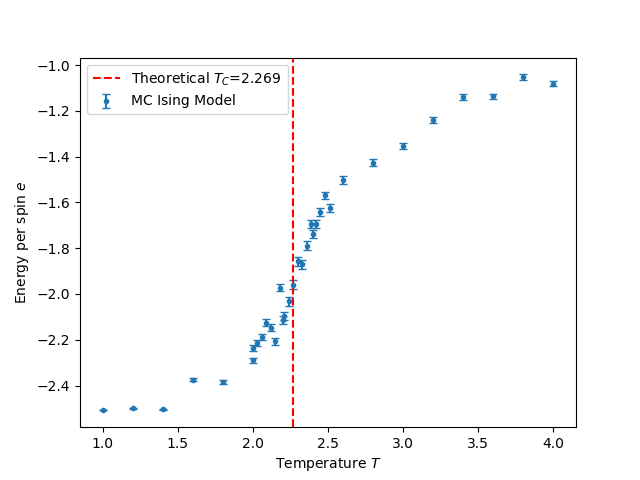
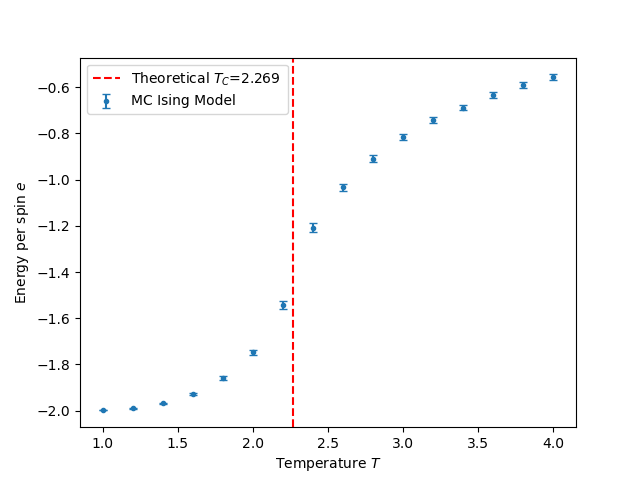
yee

diff --git a/examples/find_tau.py b/examples/find_tau.py
@@ -1,9 +1,42 @@
-from src.analysis import tau_in_temp_range
+from src.analysis import tau_in_temp_range, find_tau
+from src.MetropolisAlgorithm import MetropolisAlgorithm
+from src.physics import IsingModel, magnetization
+from src.analysis import equilibrilize, calc_chi
+from src.visualization import plot_time_trace
 import numpy as np
+from scipy.optimize import curve_fit
+import matplotlib.pyplot as plt
 
 
 
 if __name__ == "__main__":
-	settings = {"size": 50, "dimensions": 2, "initial_distribution": 0.9, "N_tau":2, "tau_sweeps":10}
-	temps = np.arange(1, 4.1, 2)
-	tau_in_temp_range(temps, settings)
+	settings = {"size": 50, "dimensions": 2, "initial_distribution": 0.9, "N_tau":2, "tau_sweeps":30}
+	# Set up settings
+	sweeps = 40
+
+	# Set up model and property functions to be calculated
+	im = IsingModel(dimensionless_temperature=1., dims=settings["dimensions"])
+	properties = (magnetization,)
+
+	# Initialize monte carlo engine
+	mc = MetropolisAlgorithm(model= im, property_functions=properties, settings=settings)
+	equilibrilize(mc, settings)
+
+	print("Determining correlation time")
+	# If the sweeps are less than the correlation time this is not a good result anyway!
+	saved_properties = mc.run_steps(settings["size"] ** settings["dimensions"] * settings["tau_sweeps"])
+
+	# Retrive the magnetization
+	magnetization_array = saved_properties[::, 1]
+
+	# Correlation function
+	chi = calc_chi(magnetization_array / settings["size"] ** settings["dimensions"])
+	chi = chi/chi[0]
+	def expo(x, a): return np.exp(-a*(x))
+	range = np.arange(np.argwhere(chi<0)[0,0])
+	popt, pcov = curve_fit(expo, range, chi[:range.size])
+	plt.plot(chi[:range.size*3])
+	plt.plot(expo(range, *popt))
+	plt.ylabel("$\\chi(t)$")
+	plt.xlabel("Steps $t$")
+	plt.show()

diff --git a/examples/advanced_properties.py b/examples/advanced_properties.py
@@ -27,11 +27,11 @@ critical_temp_settings = {
 	"initial_distribution": 0.75,	# Chance to have spin down in initialization
 	"tmin": 2,						# Minimum temperature
 	"tmax": 2.5,						# Maximum temperature
-	"t_step_size": 0.03,				# Stepsize of temperature
+	"t_step_size": 0.05,				# Stepsize of temperature
 	"equilibrize_sweep_length": 10,	# Sublength after which it checks if it is in equilibrium
 	"tau_sweeps": 60,				# Length over which correlation function is calculated (does not scale well!)
-	"N_tau": 15,					# Number of samples to determine correlation length
-	"max_blocks": 50,				# Maximum number of blocks of 16tau to calculate the properties over
+	"N_tau": 5,					# Number of samples to determine correlation length
+	"max_blocks": 16,				# Maximum number of blocks of 16tau to calculate the properties over
 	"treshold": 5e-8,				# Flatness of slope after which we call it equillibrilized
 	"max_sweeps": 100,				# Maximum sweeps after which to cancell atempt to equillibrilize
 	"sweep_length": 10,				# Sweep length of equilibrilization process before checking slope

diff --git a/src/data_analysis.py b/src/data_analysis.py
@@ -52,8 +52,8 @@ def find_critical_exponents(temperature, quantity_data, error_quantity_data):
 def exact_magnetization(temperature):
     return (1. - (np.sinh(2./temperature))**-4 )**(1./8.)
 
-mainpath="generated\\data\\"
-folders = ["2021-04-22t005212292006\\", "2021-04-22t003241375617\\"]
+mainpath=""#"generated\\data\\"
+folders = ["generated\\data\\2021-04-22t182717027002\\",]
 temperature= np.array([])
 tau= np.array([])
 magnetization= np.array([])

diff --git a/src/analysis.py b/src/analysis.py
@@ -32,7 +32,7 @@ def equilibrilize(mc:object, settings:dict):
 	if "plot" in settings.keys():
 		plot = settings["plot"]
 	else:
-		plot = 5
+		plot = 0
 
 	# Equilibrilize: run the simulation
 	spins = settings["size"] ** settings["dimensions"]
